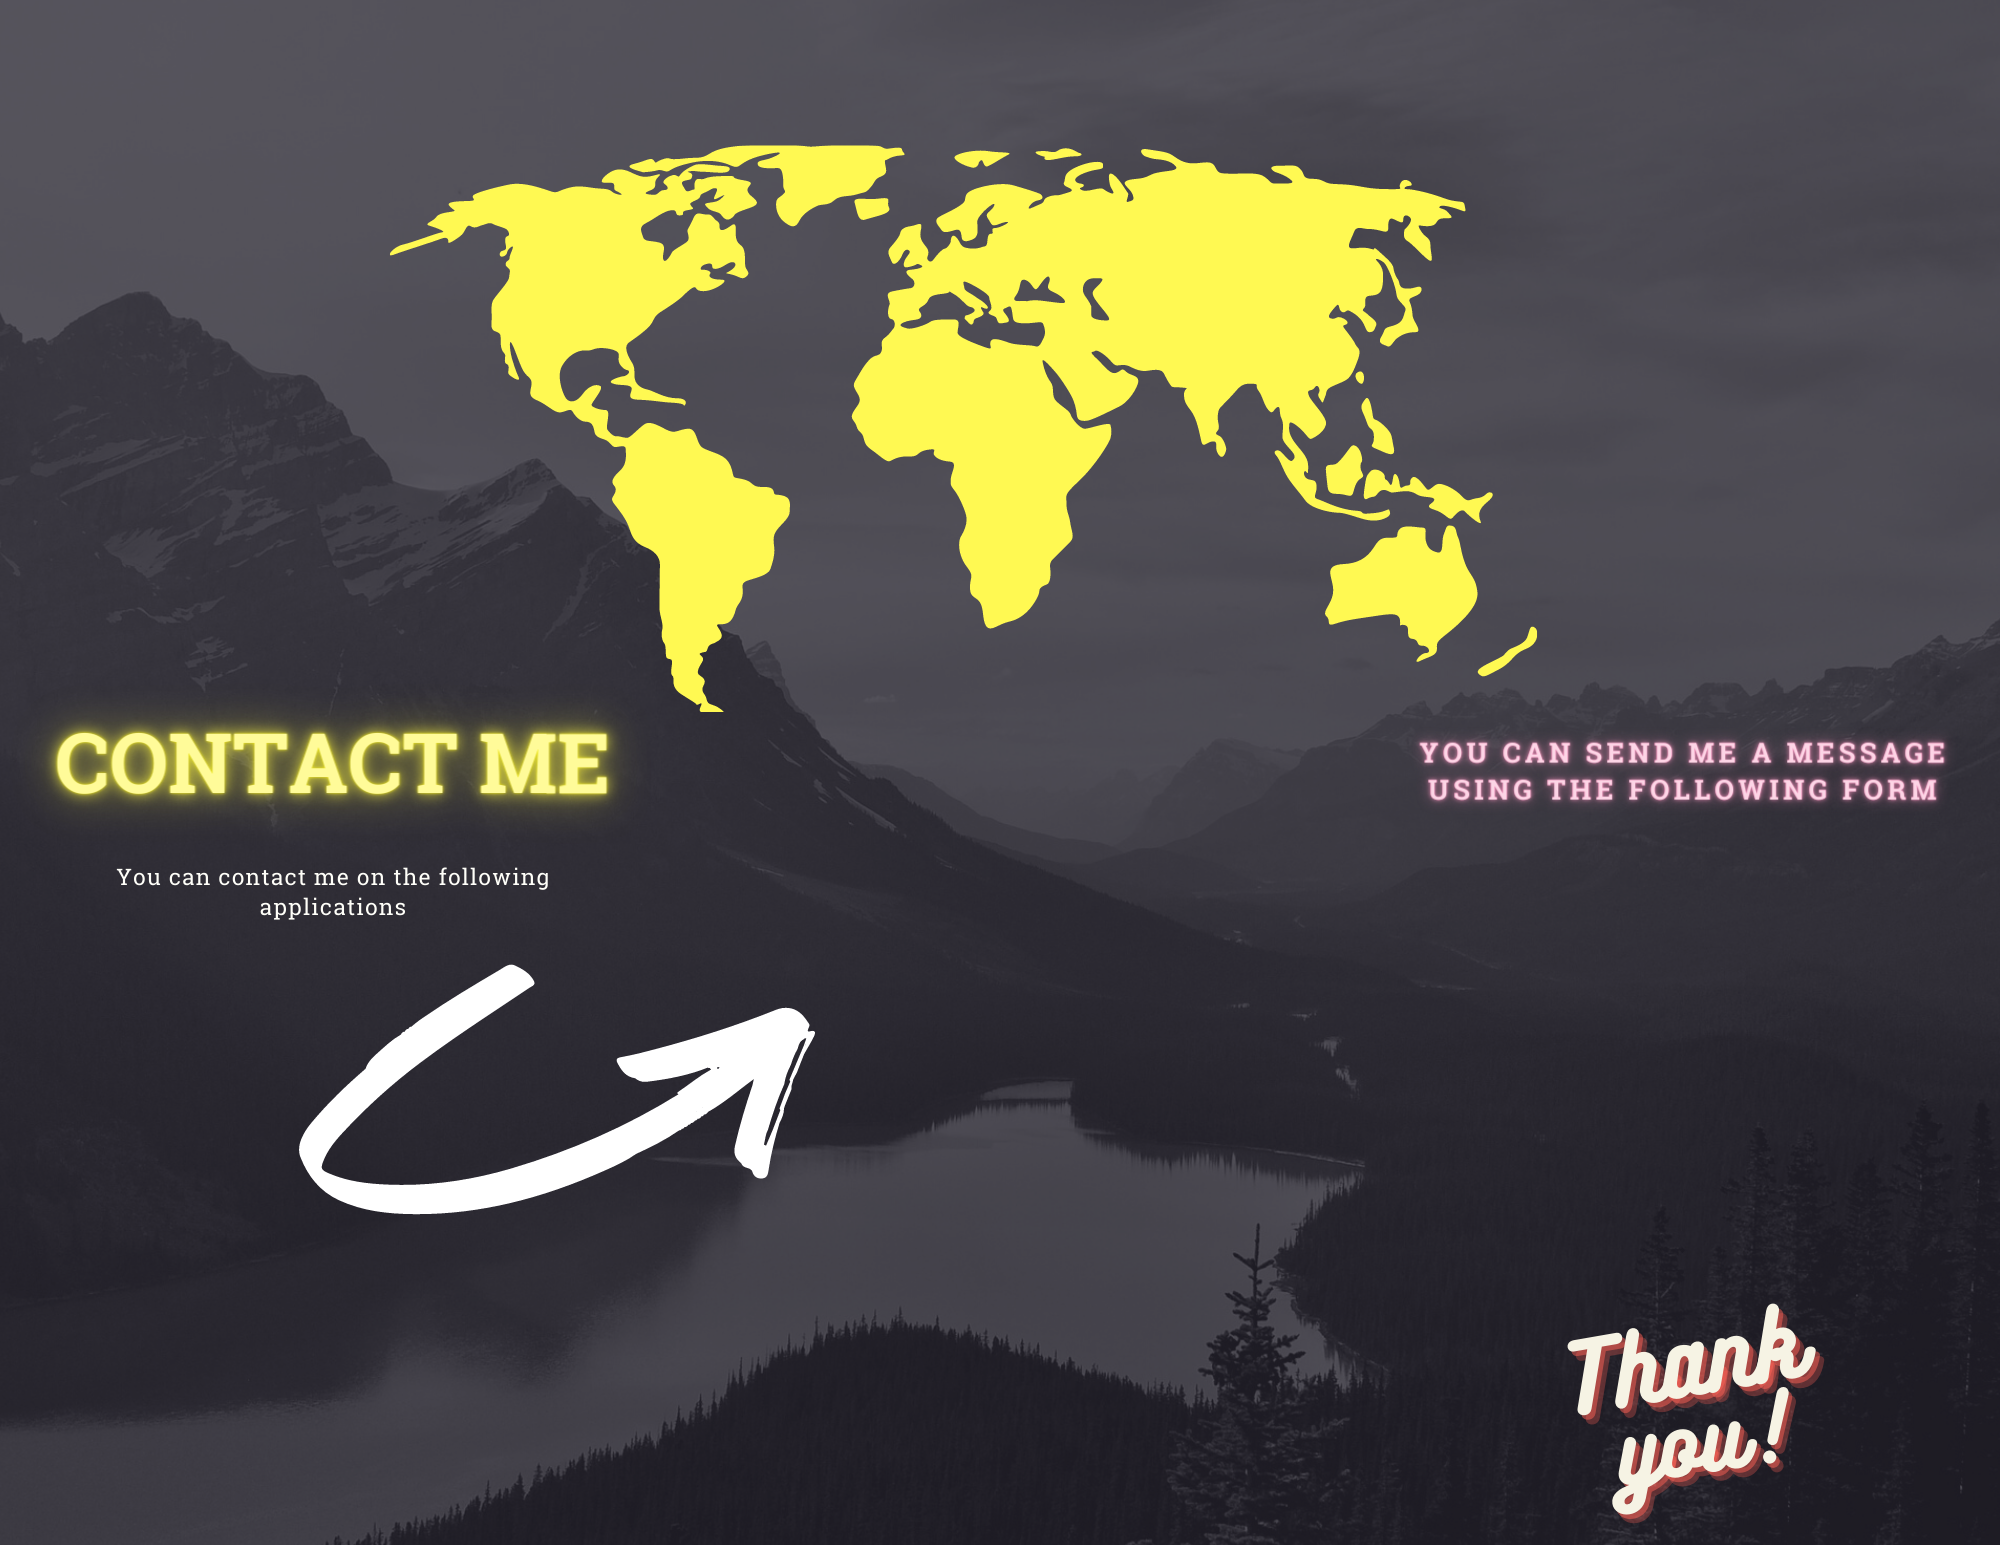
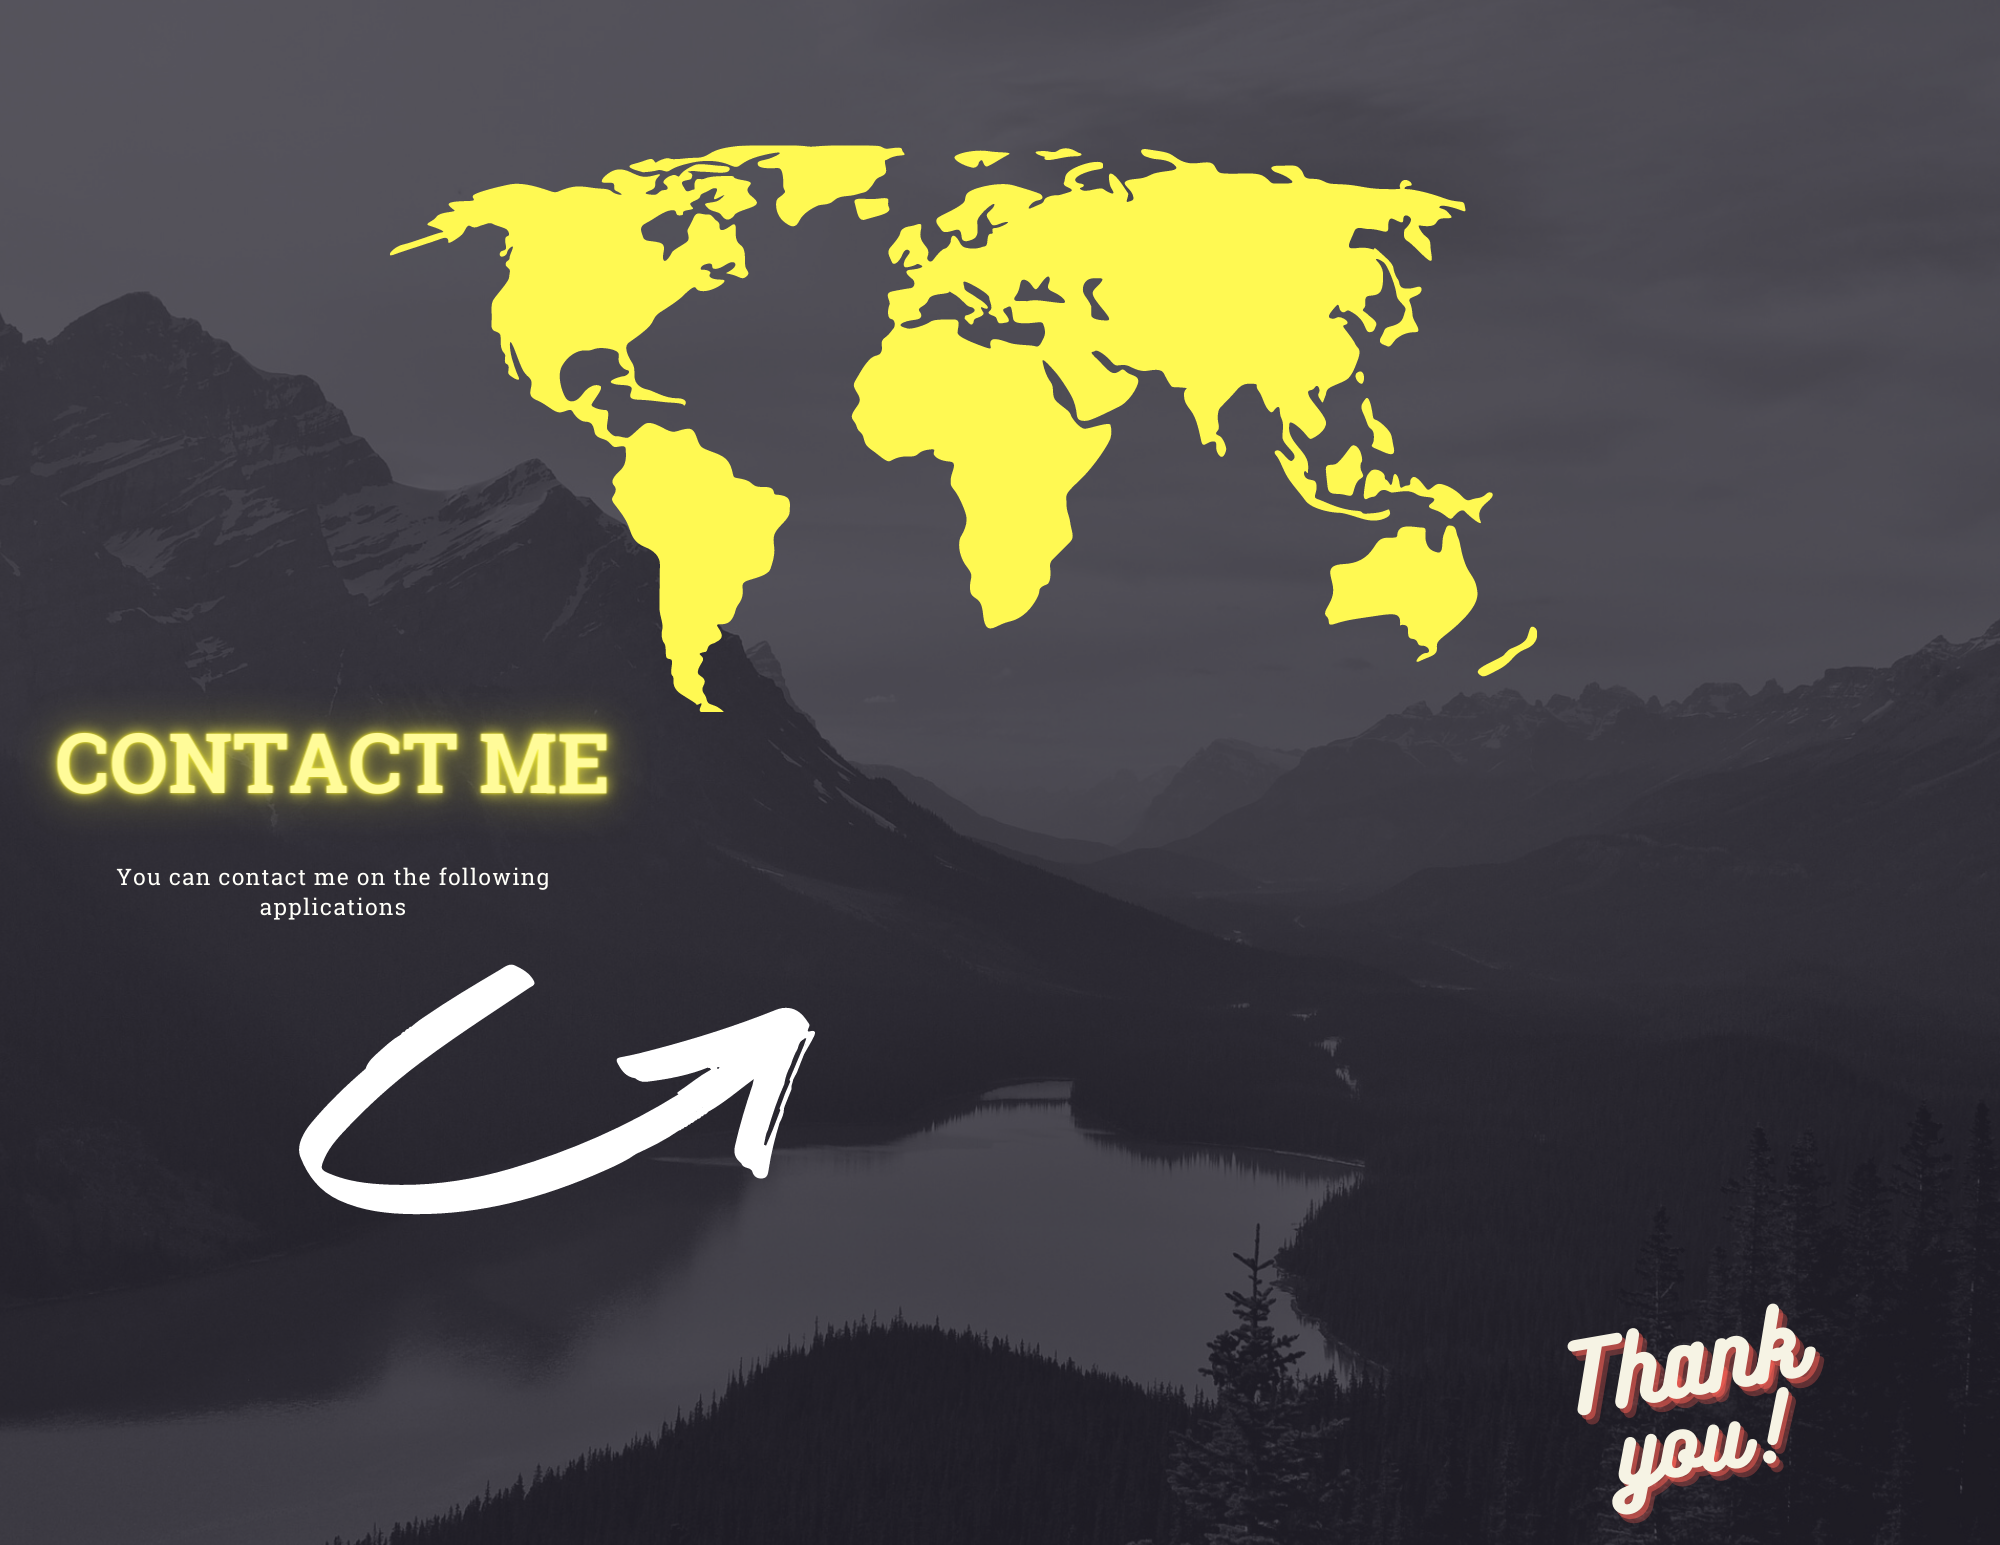
finishing the remaining editing of the website.

Changed region(s): [[0.713, 0.466, 0.992, 0.5282]]

diff --git a/home-page.css b/home-page.css
@@ -36,7 +36,9 @@
     margin: 0%;
     padding: 0%;
 }
-
+html{ 
+    overflow-x:hidden;
+}
 /* Styling the body of the page */
 body{ 
     font-family: 'Roboto Slab', serif;
@@ -213,4 +215,100 @@ body{
     font-size: 4.5rem;
     padding: 1%;
 
+}
+
+.social-buttons:hover{ 
+    color: lightblue;
+}
+
+/*Styling of the Form*/
+.form-container{ 
+    position: absolute;
+    bottom: 15%;
+    right: 3%;
+    display: flex;
+    flex-direction: column;
+    height: 50vh;
+    width: 25vw;
+
+}
+
+/*
+
+.form-content{ 
+    background: transparent;  
+    border: none;
+    outline: none;
+    border-bottom: 1px solid orangered;
+    color:palegoldenrod;
+    font-family: 'Roboto Slab', serif;
+    padding: 3%;
+}
+
+
+form .submit{ 
+    background-color: white;
+    border-color: transparent;
+    padding: 2%;
+    margin: 3%;
+    border-radius: 1rem;
+    color: black;
+}
+
+
+form .submit:hover{ 
+    background-color: orangered;
+    color: white ;
+    cursor: pointer;
+}*/
+
+.website-footer{ 
+    display: flex;
+    justify-content: space-between;
+    align-items: flex-end; 
+    background-color: black;
+    color: white;
+    padding-top: 2%;
+    
+}
+
+#footer-right-side{ 
+    font-size: 1rem;
+    width: 35%;
+    padding-bottom: 0.2%;
+}
+
+#footer-middle{ 
+    width: 35%;
+    font-size: 0.5rem;
+    padding-bottom: 0.2%;
+    text-align: right;
+}
+
+#page-map{ 
+    display: flex;
+    justify-content: space-evenly;
+    align-items: center;
+
+}
+
+.page-map-link{ 
+    text-decoration: none;
+    list-style: none;
+    color: white;
+    padding: 2%;
+}
+
+.page-map-link:hover{ 
+    color: black;
+    background-color: white;
+    border-radius: 2rem;
+}
+
+#footer-left-side{ 
+    width: 35%;
+    padding-bottom: 0.2%;
+    font-family: 'Libre Barcode 39 Text', cursive;
+    text-align: right;
+    padding-right: 0.7%;
 }

diff --git a/home-page.html b/home-page.html
@@ -79,12 +79,28 @@
                 <a class="social-buttons" href="https://codepen.io/ibrahim_dev_man" target="_blank"><i class="fab fa-codepen"></i></a>
                 <a class="social-buttons" href="https://www.facebook.com/ibrahim.san.50596/ " target="_blank"><i class="fab fa-facebook"></i></a> 
             </div>
-
-            <div class="form-container">
-                <form class="message-form" id="email-form" action=""></form>
-            </div>
-        </div>
     </section>
+    <!--Footer of the page-->
+    <footer class="website-footer"> 
+        <section id="footer-right-side">
+            <ul id="page-map">
+                <a class="page-map-link" href="#nav-bar-container"> <li>Home</li> </a>
+                <a class="page-map-link" href="#about"> <li>About</li> </a>
+                <a class="page-map-link" href="#projects"> <li>Projects</li></a>
+            </ul>
+        </section>
+
+        <section id="footer-middle">
+            <p id="right-side-content">
+                &copy; The icons used on this website belong to flaticon, and font-awesome respectively.
+            </p>
+            
+        </section>
+
+        <section id="footer-left-side">
+            <h2 id="footer-logo">Ibra The Dev Man</h2>
+        </section>
+    </footer>
     </main>
 </body>
 </html>
